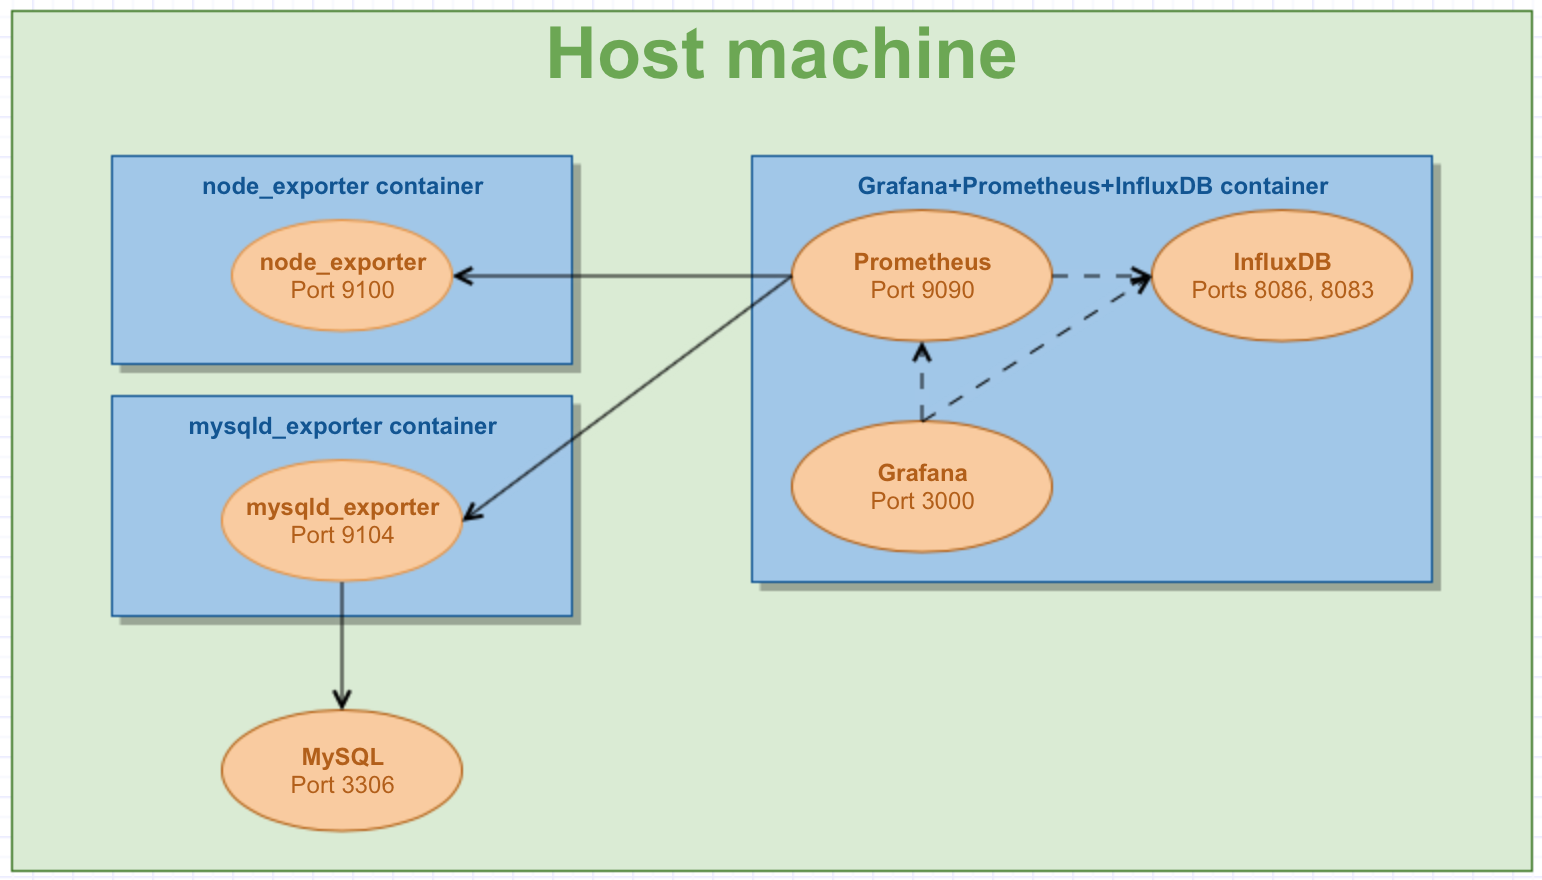
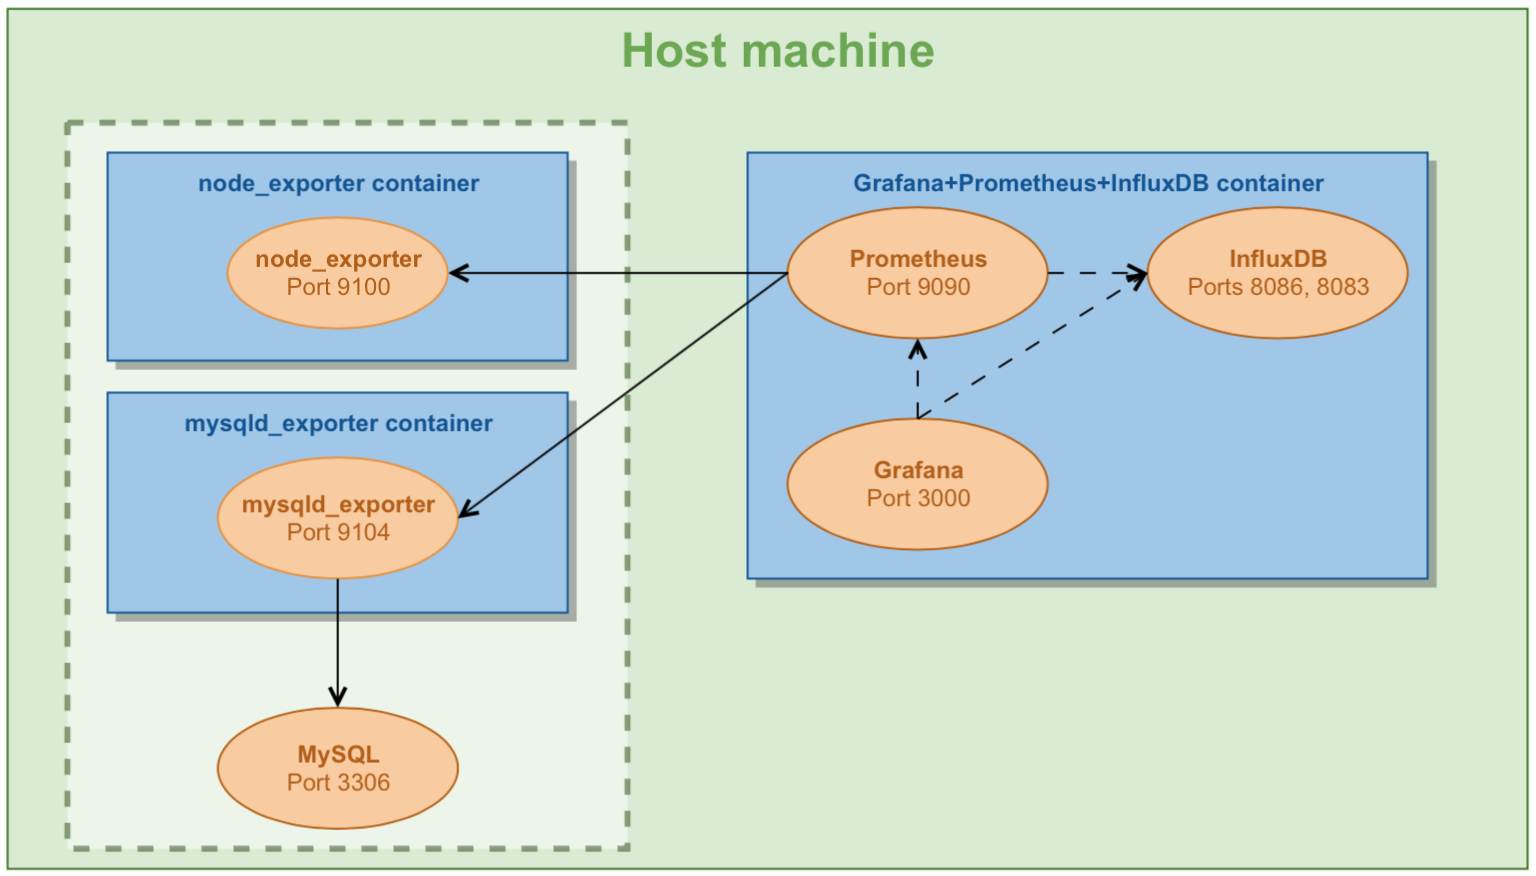
Instructions update

diff --git a/README.md b/README.md
@@ -1,4 +1,4 @@
-# Docker container with Grafana, Prometheus and InfluxDB
+## Docker container with Grafana, Prometheus and InfluxDB
 
  * [Prometheus](http://prometheus.io/) - monitoring system and time series database.
  * [Grafana](http://grafana.org/) - feature rich metrics dashboard and graph editor for Graphite, InfluxDB, OpenTSDB etc.
@@ -9,9 +9,10 @@
 ![image](diagram.png)
 
 On the diagram, you can see the connections between 3 docker containers we are going to use.
-The containers themselves may run on different host machines, not necessary the same one.
-For demo purpose, my host machine has IP `192.168.56.107` and will run all three containers.
-Note, under a host machine can be even a virtual machine.
+Grafana+Prometheus+InfluxDB container is supposed to be run on a monitor host and Prometheus exporters are
+supposed to be run on MySQL host.
+For demo purpose, I will run all three containers on the single host machine with IP `192.168.56.107`.
+Note, as a host machine you can of course use a virtual machine.
 
 ### Running Grafana+Prometheus+InfluxDB container
 
@@ -22,35 +23,49 @@ Get the source:
 
 Edit `prometheus.yml` with the host IPs you are going to monitor.
 These are IPs of the machines where Prometheus exporter containers will run.
-In my case, it's all `192.168.56.107`.
+In this case, it's all `192.168.56.107`.
 
-Build docker image and run container:
-    
-    docker build -t graf-prom-infl .
-    docker run -d -p 3000:3000 -p 9090:9090 -p 8083:8083 -p 8086:8086 --name prom graf-prom-infl
+Build docker image:
 
-Now you can access:
+    docker build -t grafana-prometheus-influx .
+
+Run container:
+
+    docker run -d -p 3000:3000 -p 9090:9090 -p 8083:8083 -p 8086:8086 --name prom grafana-prometheus-influx
+
+To run container with persistent storage from the host folders:
+
+    mkdir -p /root/docker_shared/{prometheus,influxdb,grafana}
+    chcon -Rt svirt_sandbox_file_t /root/docker_shared  # selinux fix
+
+    docker run -d -p 3000:3000 -p 9090:9090 -p 8083:8083 -p 8086:8086 --name prom \
+        -v /root/docker_shared/prometheus:/opt/prometheus/data \
+        -v /root/docker_shared/influxdb:/var/lib/influxdb \
+        -v /root/docker_shared/grafana:/var/lib/grafana \
+        grafana-prometheus-influx
+
+Now you can access the tools, however with no data yet:
 
  * Prometheus `http://<machine_host>:9090`
- * Grafana `http://<machine_host>:3000`
+ * Grafana `http://<machine_host>:3000` (admin/admin)
  * InfluxDB `http://<machine_host>:8083`
 
 ### Running Prometheus exporters with official containers
 
-Assuming `192.168.56.107` is a host machine being monitored so we will run those containers there.
-
 ### mysqld_exporter container
 
 mysqld_exporter needs to connect to MySQL from inside container to wherever MySQL runs.
-In my case, it is my host machine which IP is given in `DATA_SOURCE_NAME` when running container (see below).
+In this case, it is the current host machine which IP is given in `DATA_SOURCE_NAME`
+when running container (see below).
 
-Create MySQL user `prom@%` with the password `abc123` to use by exporter:
+Create MySQL user for access by exporter:
 
     mysql> GRANT REPLICATION CLIENT, PROCESS ON *.* TO 'prom'@'%' identified by 'abc123';
 
 Run container:
 
-    docker run -d -p 9104:9104 -e DATA_SOURCE_NAME="prom:abc123@(192.168.56.107:3306)/" --name prom-mysql prom/mysqld-exporter -collect.info_schema.tables=false -collect.binlog_size=true -collect.info_schema.processlist=true
+    docker run -d -p 9104:9104 -e DATA_SOURCE_NAME="prom:abc123@(192.168.56.107:3306)/" \
+        --name prom-mysql prom/mysqld-exporter -collect.info_schema.processlist=true
 
 Verify:
 
@@ -61,9 +76,10 @@ Verify:
 
 Run container:
 
-    docker run -d -p 9100:9100 --net="host" --name prom-node prom/node-exporter -collectors.enabled="diskstats,filesystem,loadavg,meminfo,stat,netdev,time,uname"
+    docker run -d -p 9100:9100 --net="host" --name prom-node prom/node-exporter \
+        -collectors.enabled="diskstats,filesystem,loadavg,meminfo,stat,netdev,time,uname"
 
 Verify:
 
-    docker logs prom-mysql
+    docker logs prom-node
     curl http://localhost:9100/metrics
